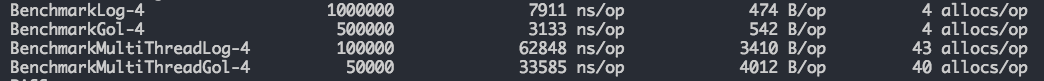
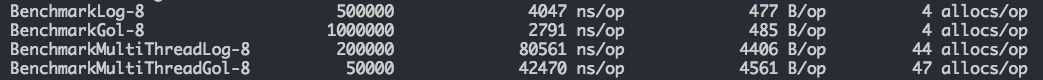
use io.Copy to write to adapter

diff --git a/gollog.go b/gollog.go
@@ -9,6 +9,8 @@ import (
 
 	"errors"
 
+	"io"
+
 	"github.com/philchia/gol/adapter"
 )
 
@@ -19,24 +21,25 @@ type gollog struct {
 	level    LogLevel
 	option   LogOption
 	adapters map[string]adapter.Adapter
-	logChan  chan []byte
+	logChan  chan *bytes.Buffer
 	doneChan chan struct{}
 	// mutex    sync.RWMutex
 }
 
 func (l *gollog) msgPump() {
 
-	for msg := range l.logChan {
+	for buf := range l.logChan {
 		for k := range l.adapters {
-			l.adapters[k].Write(msg)
+			io.Copy(l.adapters[k], buf)
 		}
+		bufferPoolPut(buf)
 	}
 
 	close(l.doneChan)
 }
 
-func (l *gollog) put(msg []byte) {
-	l.logChan <- msg
+func (l *gollog) put(buf *bytes.Buffer) {
+	l.logChan <- buf
 }
 
 // itoa: Cheap integer to fixed-width decimal ASCII.  Give a negative width to avoid zero-padding.
@@ -128,9 +131,8 @@ func (l *gollog) generateLog(buf *bytes.Buffer, callDepth int, level LogLevel, m
 func (l *gollog) output(callDepth int, level LogLevel, msg string) {
 	buf := bufferPoolGet()
 	l.generateLog(buf, callDepth, level, msg)
-	bts := buf.Bytes()
-	bufferPoolPut(buf)
-	l.put(bts)
+
+	l.put(buf)
 }
 
 // Debug will prinnt log as DEBUG level

diff --git a/logger.go b/logger.go
@@ -1,6 +1,8 @@
 package gol
 
 import (
+	"bytes"
+
 	"github.com/philchia/gol/adapter"
 	"github.com/philchia/gol/adapter/console"
 )
@@ -38,7 +40,7 @@ func NewLogger(level LogLevel) Logger {
 	logger := &gollog{
 		level:    level,
 		option:   LstdFlags,
-		logChan:  make(chan []byte, 10240),
+		logChan:  make(chan *bytes.Buffer, 10240),
 		doneChan: make(chan struct{}),
 		adapters: make(map[string]adapter.Adapter, 1),
 	}

diff --git a/logger_test.go b/logger_test.go
@@ -1,6 +1,9 @@
 package gol
 
-import "testing"
+import (
+	"bytes"
+	"testing"
+)
 
 func TestNewLogger(t *testing.T) {
 	type args struct {
@@ -19,7 +22,7 @@ func TestNewLogger(t *testing.T) {
 			&gollog{
 				level:   DEBUG,
 				option:  LstdFlags,
-				logChan: make(chan []byte, 1024),
+				logChan: make(chan *bytes.Buffer, 1024),
 			},
 		},
 	}
